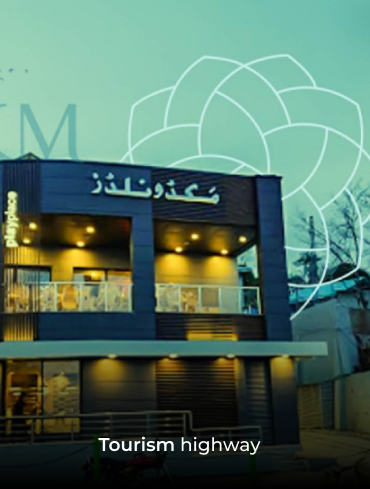
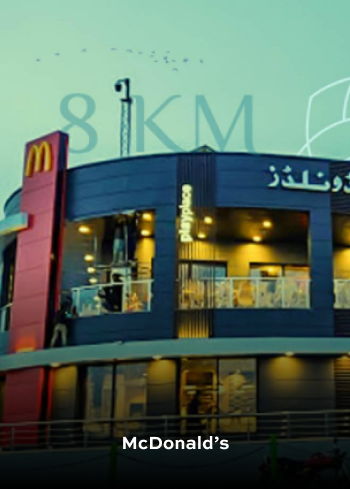
swiper imgs change

diff --git a/src/screens/index.jsx b/src/screens/index.jsx
@@ -9,9 +9,17 @@ import {
   basedright,
   basedleft,
   swiperimg,
+  swiperimg1,
+  swiperimg2,
+  swiperimg3,
+  swiperimg4,
+  swiperimg5,
   locctionswiperimg,
   locctionswiperimg1,
   locctionswiperimg2,
+  locctionswiperimg3,
+  locctionswiperimg4,
+  locctionswiperimg5,
   nextpageimg,
 } from "../assets/index.js";
 import { Swiper, SwiperSlide } from "swiper/react";
@@ -398,6 +406,27 @@ export default function Index() {
                 <SwiperSlide>
                   <img
                     className="locationpointer__swipe__img"
+                    src={locctionswiperimg3}
+                    alt=" swiperimg"
+                  />
+                </SwiperSlide>
+                <SwiperSlide>
+                  <img
+                    className="locationpointer__swipe__img"
+                    src={locctionswiperimg4}
+                    alt=" swiperimg"
+                  />
+                </SwiperSlide>
+                <SwiperSlide>
+                  <img
+                    className="locationpointer__swipe__img"
+                    src={locctionswiperimg5}
+                    alt=" swiperimg"
+                  />
+                </SwiperSlide>
+                <SwiperSlide>
+                  <img
+                    className="locationpointer__swipe__img"
                     src={locctionswiperimg}
                     alt=" swiperimg"
                   />
@@ -419,21 +448,21 @@ export default function Index() {
                 <SwiperSlide>
                   <img
                     className="locationpointer__swipe__img"
-                    src={locctionswiperimg}
+                    src={locctionswiperimg3}
                     alt=" swiperimg"
                   />
                 </SwiperSlide>
                 <SwiperSlide>
                   <img
                     className="locationpointer__swipe__img"
-                    src={locctionswiperimg1}
+                    src={locctionswiperimg4}
                     alt=" swiperimg"
                   />
                 </SwiperSlide>
                 <SwiperSlide>
                   <img
                     className="locationpointer__swipe__img"
-                    src={locctionswiperimg2}
+                    src={locctionswiperimg5}
                     alt=" swiperimg"
                   />
                 </SwiperSlide>
@@ -722,63 +751,28 @@ export default function Index() {
                 <SwiperSlide>
                   <img
                     className="ourproject__swiper__img"
-                    src={swiperimg}
+                    src={swiperimg2}
                     alt=" swiperimg"
                   />
                 </SwiperSlide>
                 <SwiperSlide>
                   <img
                     className="ourproject__swiper__img"
-                    src={swiperimg}
+                    src={swiperimg3}
                     alt=" swiperimg"
                   />
                 </SwiperSlide>
                 <SwiperSlide>
                   <img
                     className="ourproject__swiper__img"
-                    src={swiperimg}
+                    src={swiperimg4}
                     alt=" swiperimg"
                   />
                 </SwiperSlide>
                 <SwiperSlide>
                   <img
                     className="ourproject__swiper__img"
-                    src={swiperimg}
-                    alt=" swiperimg"
-                  />
-                </SwiperSlide>
-                <SwiperSlide>
-                  <img
-                    className="ourproject__swiper__img"
-                    src={swiperimg}
-                    alt=" swiperimg"
-                  />
-                </SwiperSlide>
-                <SwiperSlide>
-                  <img
-                    className="ourproject__swiper__img"
-                    src={swiperimg}
-                    alt=" swiperimg"
-                  />
-                </SwiperSlide>
-                <SwiperSlide>
-                  <img
-                    className="ourproject__swiper__img"
-                    src={swiperimg}
-                    alt=" swiperimg"
-                  />
-                </SwiperSlide>
-                <SwiperSlide>
-                  <img
-                    className="ourproject__swiper__img"
-                    src={swiperimg}
-                    alt=" swiperimg"
-                  />
-                </SwiperSlide>
-                <SwiperSlide>
-                  <img
-                    className="ourproject__swiper__img"
-                    src={swiperimg}
+                    src={swiperimg5}
                     alt=" swiperimg"
                   />
                 </SwiperSlide>

diff --git a/src/assets/index.js b/src/assets/index.js
@@ -10,10 +10,18 @@ export { default as footerrightimg } from "../assets/footerrightimg.png";
 export { default as basedright } from "../assets/basedright.png";
 export { default as basedleft } from "../assets/basedleft.png";
 export { default as swiperimg } from "../assets/swiperimg.png";
+export { default as swiperimg1 } from "../assets/swiperimg1.png";
+export { default as swiperimg2 } from "../assets/swiperimg2.png";
+export { default as swiperimg3 } from "../assets/swiperimg3.png";
+export { default as swiperimg4 } from "../assets/swiperimg4.png";
+export { default as swiperimg5 } from "../assets/swiperimg5.png";
 export { default as signlogo } from "../assets/signlogo.png";
 export { default as locctionswiperimg } from "../assets/locctionswiperimg.png";
 export { default as locctionswiperimg1 } from "../assets/locctionswiperimg1.png";
 export { default as locctionswiperimg2 } from "../assets/locctionswiperimg2.png";
+export { default as locctionswiperimg3 } from "../assets/locctionswiperimg3.png";
+export { default as locctionswiperimg4 } from "../assets/locctionswiperimg4.png";
+export { default as locctionswiperimg5 } from "../assets/locctionswiperimg5.png";
 export { default as nextpageimg } from "../assets/nextpageimg.png";
 export { default as headerlogo } from "../assets/headerlogo.png";
 export { default as suitsfeaturesimg } from "../assets/suitsfeaturesimg.png";
